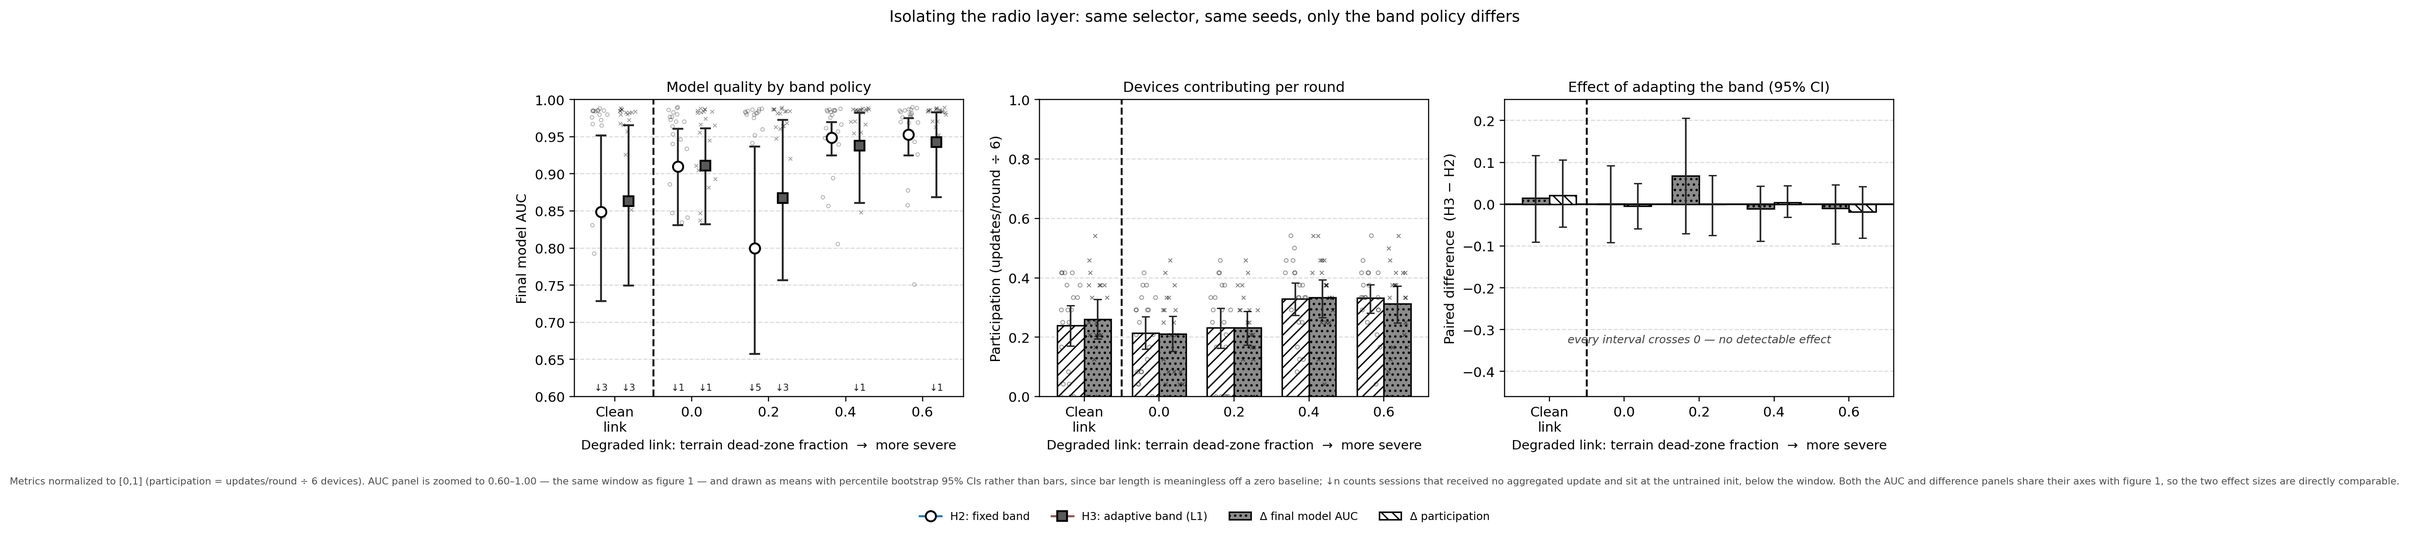
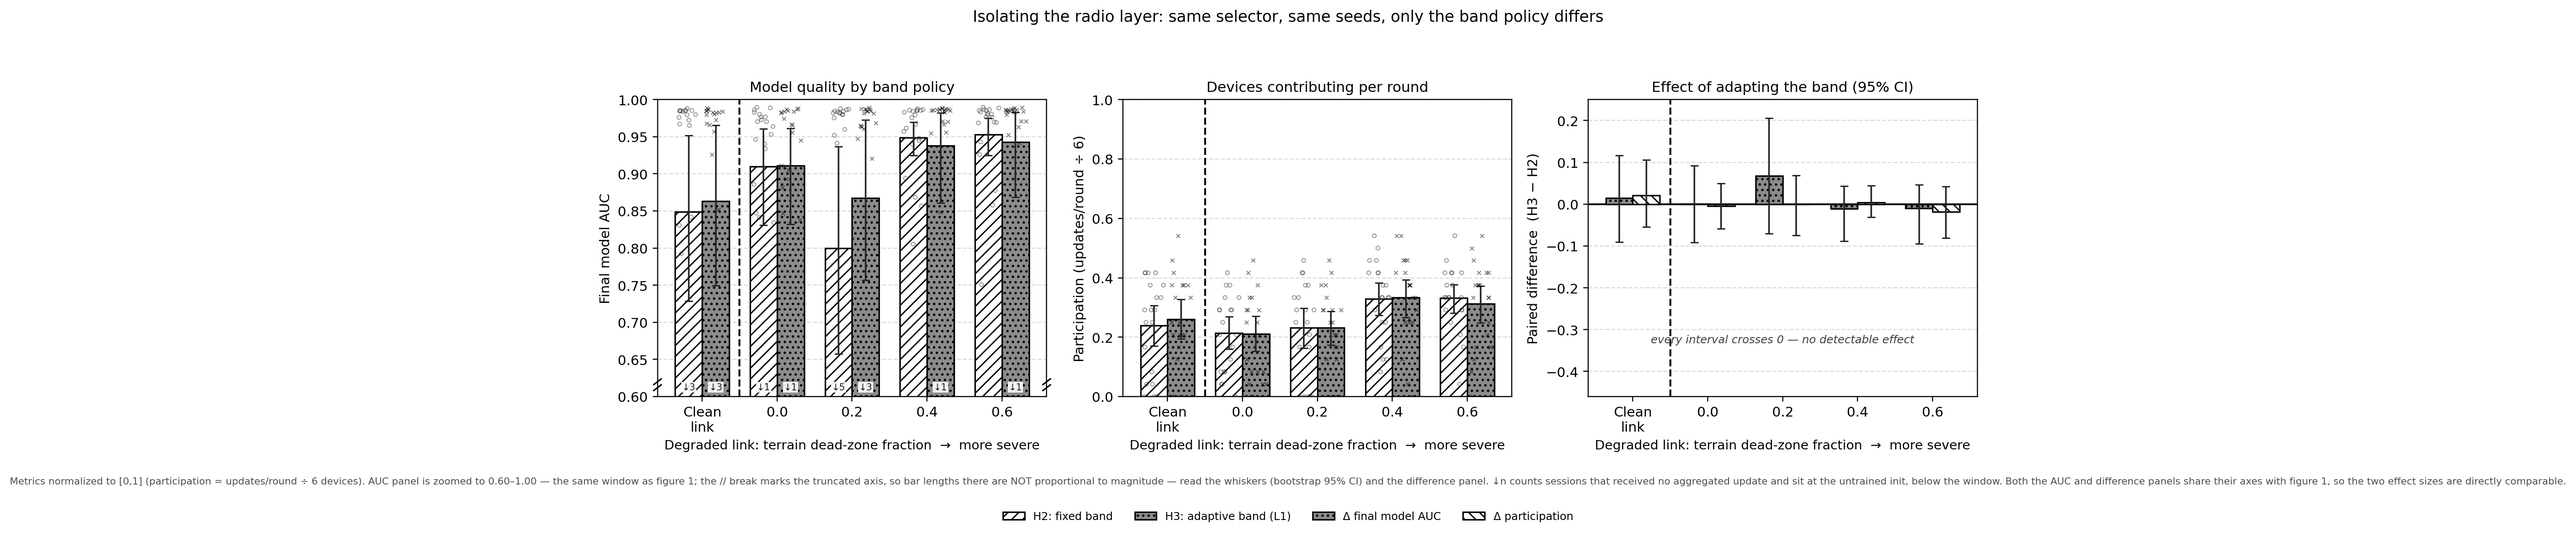
EX-4: keep bars on the zoomed AUC panels, with an axis-break marker
Reverts the AUC panels from dot-and-CI back to bars so all panels across both
figures use one encoding, per request. The zoom ([0.60, 1.00], shared by both
figures) and everything else stay as they were.

Bars on a truncated axis need the truncation declared, since a bar encodes
magnitude by length from zero and those lengths are no longer proportional once
the baseline is non-zero. draw_metric_panel now takes a ylim and, whenever it
starts above zero, automatically: draws the conventional // break marks on both
spines, flags any value below the window as a per-condition down-arrow count
instead of dropping it, and skips the chance line if it falls outside. The
caption states plainly that bar lengths in that panel are not proportional to
magnitude and points the reader to the whiskers and the difference panel, which
is where every quantitative claim actually comes from.

assert_within_zoom() still fails loudly if a mean or CI would be cropped.

diff --git a/experiments/analysis/figstyle.py b/experiments/analysis/figstyle.py
@@ -89,6 +89,21 @@ def boot_ci(values: Sequence[float], n: int = BOOT_N, seed: int = BOOT_SEED):
     return m, means[int(0.025 * n)], means[int(0.975 * n)]
 
 
+def draw_axis_break(ax, *, size: float = 0.011, y: float = 0.030) -> None:
+    """Draw the conventional ``//`` break marks on a truncated y-axis.
+
+    Required whenever bars are drawn on an axis that does not start at zero. A
+    bar encodes magnitude by its length from zero, so a truncated bar chart
+    silently exaggerates differences unless the break is marked; the slashes are
+    the standard signal that the axis is cut.
+    """
+    kw = dict(transform=ax.transAxes, clip_on=False, color="black", lw=1.1,
+              zorder=6, solid_capstyle="butt")
+    for dy in (0.0, 0.020):
+        ax.plot([-size, size], [y + dy - size, y + dy + size], **kw)
+        ax.plot([1 - size, 1 + size], [y + dy - size, y + dy + size], **kw)
+
+
 def draw_metric_panel(
     ax,
     x: np.ndarray,
@@ -98,19 +113,28 @@ def draw_metric_panel(
     *,
     ylabel: str,
     title: str,
+    ylim=METRIC_YLIM,
     width: float = 0.36,
     show_chance: bool = False,
     collapse_below: Optional[float] = None,
     divider_after: int = 0,
-) -> float:
+) -> dict:
     """Grouped bars = mean, whiskers = bootstrap CI, points = per-seed values.
 
     ``series_by_arm[a][c]`` is the list of per-seed values for arm ``a`` in
-    condition ``c``. Returns the highest y any artist reaches, so the caller can
-    assert nothing was drawn outside the metric's bounds.
+    condition ``c``.
+
+    When ``ylim`` starts above 0 the axis is truncated, so break marks are drawn
+    automatically and any value falling below the window is counted and flagged
+    as ``↓n`` rather than silently dropped.
+
+    Returns ``{"min", "max"}`` over the drawn means/CIs so the caller can assert
+    nothing was cropped.
     """
     styles = [BASELINE_STYLE, TREATMENT_STYLE]
-    top = 0.0
+    lo_b, hi_b = ylim
+    truncated = lo_b > 0.0
+    out = {"min": float("inf"), "max": float("-inf")}
     for ai, (series, label) in enumerate(zip(series_by_arm, arm_labels)):
         color, hatch, marker, mcol = styles[ai % len(styles)]
         off = (ai - (len(series_by_arm) - 1) / 2) * width
@@ -118,41 +142,52 @@ def draw_metric_panel(
         means = [s[0] for s in stats]
         lo = [s[0] - s[1] if s[0] == s[0] else 0.0 for s in stats]
         hi = [s[2] - s[0] if s[0] == s[0] else 0.0 for s in stats]
+        for s in stats:
+            if s[0] == s[0]:
+                out["min"] = min(out["min"], s[1])
+                out["max"] = max(out["max"], s[2])
         ax.bar(x + off, means, width, yerr=[lo, hi], capsize=3, label=label,
                color=color, edgecolor="black", hatch=hatch, linewidth=1.1,
                error_kw=dict(ecolor="0.15", lw=1.2), zorder=2)
         rng = random.Random(JITTER_SEED)
-        for xi, v in zip(x, series):
-            jx = [xi + off + (rng.random() - 0.5) * width * 0.78 for _ in v]
+        for ci_, (xi, v) in enumerate(zip(x, series)):
+            inside = [y for y in v if lo_b <= y <= hi_b]
+            jx = [xi + off + (rng.random() - 0.5) * width * 0.78 for _ in inside]
             kw = (dict(facecolors="none", edgecolors=mcol) if marker == "o"
                   else dict(color=mcol))
-            ax.scatter(jx, v, s=8, marker=marker, linewidths=0.65, alpha=0.5,
+            ax.scatter(jx, inside, s=8, marker=marker, linewidths=0.65, alpha=0.5,
                        zorder=3, **kw)
+            # Values below a truncated window are flagged, never hidden.
+            n_below = sum(1 for y in v if y < lo_b)
+            if truncated and n_below:
+                ax.annotate(f"↓{n_below}", xy=(xi + off, lo_b + (hi_b - lo_b) * 0.022),
+                            ha="center", fontsize=6.8, color="0.10",
+                            bbox=dict(fc="white", ec="none", pad=0.6, alpha=0.9))
         # Name the failure mode in numbers instead of hiding it in a whisker.
-        if collapse_below is not None:
+        if collapse_below is not None and not truncated:
             for xi, v in zip(x, series):
                 c = sum(1 for y in v if y < collapse_below)
                 if c:
                     ax.annotate(f"{c}/{len(v)}", xy=(xi + off, 0.045), ha="center",
                                 fontsize=6.8, color="0.10",
                                 bbox=dict(fc="white", ec="none", pad=0.7, alpha=0.85))
-        vals = [s[2] for s in stats if s[2] == s[2]] + [max(v) for v in series if v]
-        top = max([top] + vals)
 
     if divider_after:
         ax.axvline(divider_after - 0.5, color="black", ls="--", lw=1.4, zorder=1)
-    if show_chance:
+    if show_chance and lo_b < CHANCE_LINE < hi_b:
         ax.axhline(CHANCE_LINE, color="0.45", ls=(0, (1, 3)), lw=1.0, zorder=1)
         ax.annotate("chance (0.50)", xy=(len(labels) - 0.62, CHANCE_LINE + 0.014),
                     fontsize=7.2, color="0.35", style="italic")
     ax.set_xticks(x)
     ax.set_xticklabels(labels)
-    ax.set_ylim(*METRIC_YLIM)
+    ax.set_ylim(*ylim)
     ax.set_ylabel(ylabel)
     ax.set_title(title, fontsize=10.5)
     ax.grid(axis="y", ls="--", alpha=0.45)
     ax.set_axisbelow(True)
-    return top
+    if truncated:
+        draw_axis_break(ax)
+    return out
 
 
 def draw_zoomed_point_panel(

diff --git a/DeveloperDocs/exp4_figure.py b/DeveloperDocs/exp4_figure.py
@@ -9,15 +9,18 @@ Three panels, all metrics normalized to [0,1] (see
 experiments/analysis/figstyle.py), with every axis shared with figure 2 so the
 two can be read side by side:
 
-  1. Final model AUC          — zoomed to AUC_ZOOM_YLIM, means + bootstrap CIs
+  1. Final model AUC          — bars, zoomed to AUC_ZOOM_YLIM w/ axis break
   2. Participation            — updates/round ÷ N devices, full [0,1] bars
   3. Paired H1−H0 difference  — bootstrap 95% CIs on the shared difference axis
 
-**Why panel 1 is a dot plot, not bars.** On a full [0,1] axis the AUC
-differences (0.01–0.12) are invisible, so the panel is zoomed. A bar encodes
-magnitude by its length from zero, which is meaningless once the baseline is
-non-zero — so a zoomed bar chart exaggerates differences. A marker plus an
-interval encodes a point estimate and its uncertainty honestly at any baseline.
+**The AUC panel is zoomed, and marked as such.** On a full [0,1] axis the AUC
+differences (0.01–0.12) are invisible. Bars are kept for consistency with the
+rest of the figure set, but a bar encodes magnitude by its length *from zero*,
+so on a truncated axis those lengths are not proportional to the values — the
+classic way a chart overstates a difference. Two mitigations, both required:
+the ``//`` break marks on the axis declare the truncation, and panel 3 carries
+the actual effect sizes with confidence intervals, so no conclusion rests on
+comparing truncated bar heights.
 
 **Why the zoom floor is 0.60, not 0.80.** It is the tightest window that still
 contains every mean and every bootstrap CI bound in *both* figures (the lowest
@@ -48,7 +51,7 @@ sys.path.insert(0, os.path.dirname(os.path.dirname(os.path.abspath(__file__))))
 from experiments.analysis.exp4 import analyze_metric, load_exp4  # noqa: E402
 from experiments.analysis.figstyle import (  # noqa: E402
     AUC_ZOOM_YLIM, DIFF_YLIM, METRIC_YLIM, assert_within_zoom, draw_diff_panel,
-    draw_metric_panel, draw_zoomed_point_panel,
+    draw_metric_panel,
 )
 
 REPO = os.path.dirname(os.path.dirname(os.path.abspath(__file__)))
@@ -90,13 +93,13 @@ x = np.arange(len(CONDS))
 labels = [c[0] for c in CONDS]
 drawn = {}
 
-# ---- Panel 1: AUC on the shared ZOOMED axis (dot + CI, not bars) --------- #
+# ---- Panel 1: AUC as bars on the shared ZOOMED axis ---------------------- #
 auc_series = [[vals(rg, dz, arm, "final_auc") for _, rg, dz in CONDS]
               for arm in (BASELINE, TREATMENT)]
-zoom = draw_zoomed_point_panel(
+zoom = draw_metric_panel(
     axes[0], x, labels, auc_series, ARM_LABELS,
     ylabel="Final model AUC", title="Model quality after the session",
-    below_axis_note="sessions at untrained init", divider_after=1,
+    ylim=AUC_ZOOM_YLIM, divider_after=1,
 )
 axes[0].set_xlabel(XLABEL, fontsize=9.5)
 assert_within_zoom(zoom["min"], zoom["max"])
@@ -141,9 +144,10 @@ fig.suptitle(
 fig.text(0.5, 0.085,
          f"Metrics normalized to [0,1] (participation = updates/round ÷ {N_DEVICES} devices). "
          f"AUC panel is zoomed to {AUC_ZOOM_YLIM[0]:.2f}–{AUC_ZOOM_YLIM[1]:.2f} — shared with "
-         f"figure 2 — and drawn as means with percentile bootstrap 95% CIs rather than bars, "
-         f"since bar length is meaningless off a zero baseline; ↓n counts sessions that "
-         f"received no aggregated update and sit at the untrained init, below the window. "
+         f"figure 2; the // break marks the truncated axis, so bar lengths there are NOT "
+         f"proportional to magnitude — read the whiskers (bootstrap 95% CI) and the difference "
+         f"panel. ↓n counts sessions that received no aggregated update and sit at the "
+         f"untrained init, below the window. "
          f"Right panel also shares its axis with figure 2; * = CI excludes 0 and p<0.05.",
          ha="center", fontsize=7.2, color="0.30")
 fig.tight_layout(rect=[0, 0.115, 1, 0.935])
@@ -151,7 +155,8 @@ fig.savefig(OUT, dpi=220, bbox_inches="tight")
 print("wrote", OUT)
 
 # ---- Guards: nothing may be drawn outside a normalized metric's bounds ---- #
-for ylabel, top in drawn.items():
+for ylabel, res in drawn.items():
+    top = res["max"]
     assert top <= METRIC_YLIM[1] + 1e-9, f"{ylabel} panel draws to {top} > {METRIC_YLIM[1]}"
     print(f"  {ylabel}: highest drawn {top:.4f} <= {METRIC_YLIM[1]}")
 for results in diff_results:

diff --git a/DeveloperDocs/exp4_figure_layer1.py b/DeveloperDocs/exp4_figure_layer1.py
@@ -53,7 +53,7 @@ sys.path.insert(0, os.path.dirname(os.path.dirname(os.path.abspath(__file__))))
 from experiments.analysis.exp4 import analyze_metric, load_exp4  # noqa: E402
 from experiments.analysis.figstyle import (  # noqa: E402
     AUC_ZOOM_YLIM, DIFF_YLIM, METRIC_YLIM, assert_within_zoom, draw_diff_panel,
-    draw_metric_panel, draw_zoomed_point_panel,
+    draw_metric_panel,
 )
 
 REPO = os.path.dirname(os.path.dirname(os.path.abspath(__file__)))
@@ -104,13 +104,13 @@ x = np.arange(len(CONDS))
 labels = [c[0] for c in CONDS]
 drawn = {}
 
-# ---- Panel 1: AUC on the shared ZOOMED axis (dot + CI, not bars) --------- #
+# ---- Panel 1: AUC as bars on the shared ZOOMED axis ---------------------- #
 auc_series = [[vals(rg, dz, arm, "final_auc") for _, rg, dz in CONDS]
               for arm in (BASELINE, TREATMENT)]
-zoom = draw_zoomed_point_panel(
+zoom = draw_metric_panel(
     axes[0], x, labels, auc_series, ARM_LABELS,
     ylabel="Final model AUC", title="Model quality by band policy",
-    below_axis_note="sessions at untrained init", divider_after=1,
+    ylim=AUC_ZOOM_YLIM, divider_after=1,
 )
 axes[0].set_xlabel(XLABEL, fontsize=9.5)
 assert_within_zoom(zoom["min"], zoom["max"])
@@ -158,9 +158,10 @@ fig.suptitle(
 fig.text(0.5, 0.085,
          f"Metrics normalized to [0,1] (participation = updates/round ÷ {N_DEVICES} devices). "
          f"AUC panel is zoomed to {AUC_ZOOM_YLIM[0]:.2f}–{AUC_ZOOM_YLIM[1]:.2f} — the same "
-         f"window as figure 1 — and drawn as means with percentile bootstrap 95% CIs rather "
-         f"than bars, since bar length is meaningless off a zero baseline; ↓n counts sessions "
-         f"that received no aggregated update and sit at the untrained init, below the window. "
+         f"window as figure 1; the // break marks the truncated axis, so bar lengths there are "
+         f"NOT proportional to magnitude — read the whiskers (bootstrap 95% CI) and the "
+         f"difference panel. ↓n counts sessions that received no aggregated update and sit at "
+         f"the untrained init, below the window. "
          f"Both the AUC and difference panels share their axes with figure 1, so the two "
          f"effect sizes are directly comparable.",
          ha="center", fontsize=7.2, color="0.30")
@@ -169,7 +170,8 @@ fig.savefig(OUT, dpi=220, bbox_inches="tight")
 print("wrote", OUT)
 
 # ---- Guards --------------------------------------------------------------- #
-for ylabel, top in drawn.items():
+for ylabel, res in drawn.items():
+    top = res["max"]
     assert top <= METRIC_YLIM[1] + 1e-9, f"{ylabel} panel draws to {top} > {METRIC_YLIM[1]}"
     print(f"  {ylabel}: highest drawn {top:.4f} <= {METRIC_YLIM[1]}")
 for results in diff_results:
